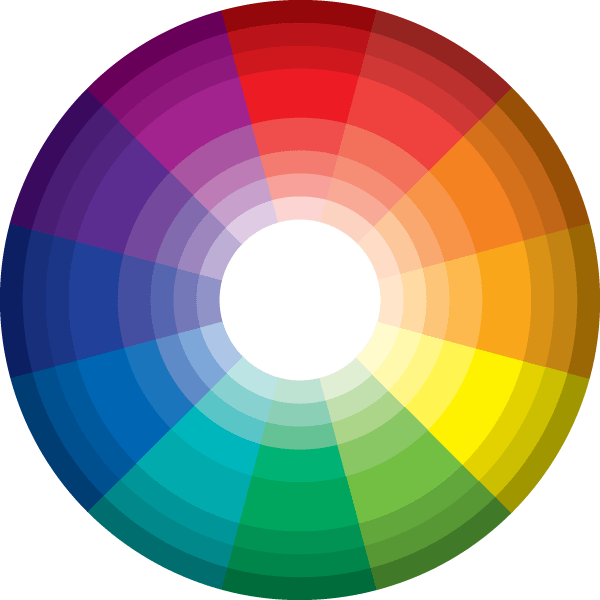
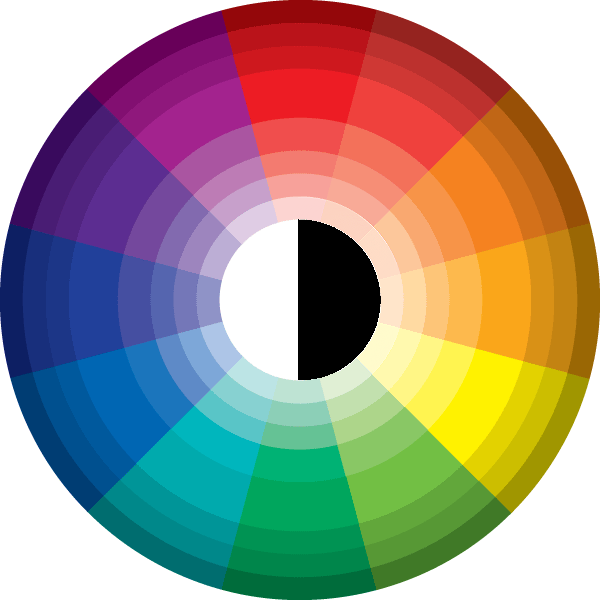
added black to colour palette

Changed region(s): [[0.48, 0.36, 0.66, 0.63]]

diff --git a/public/js/grid.js b/public/js/grid.js
@@ -14,8 +14,8 @@
 
   var defaults = {
     distance: 15,
-    lineWidth: 0.4,
-    gridColor: "#1da5de",
+    lineWidth: 0.2,
+    gridColor: "rgb(131, 154, 255)",
     caption: false,
     font: "10px Verdana",
     verticalLines: true,
